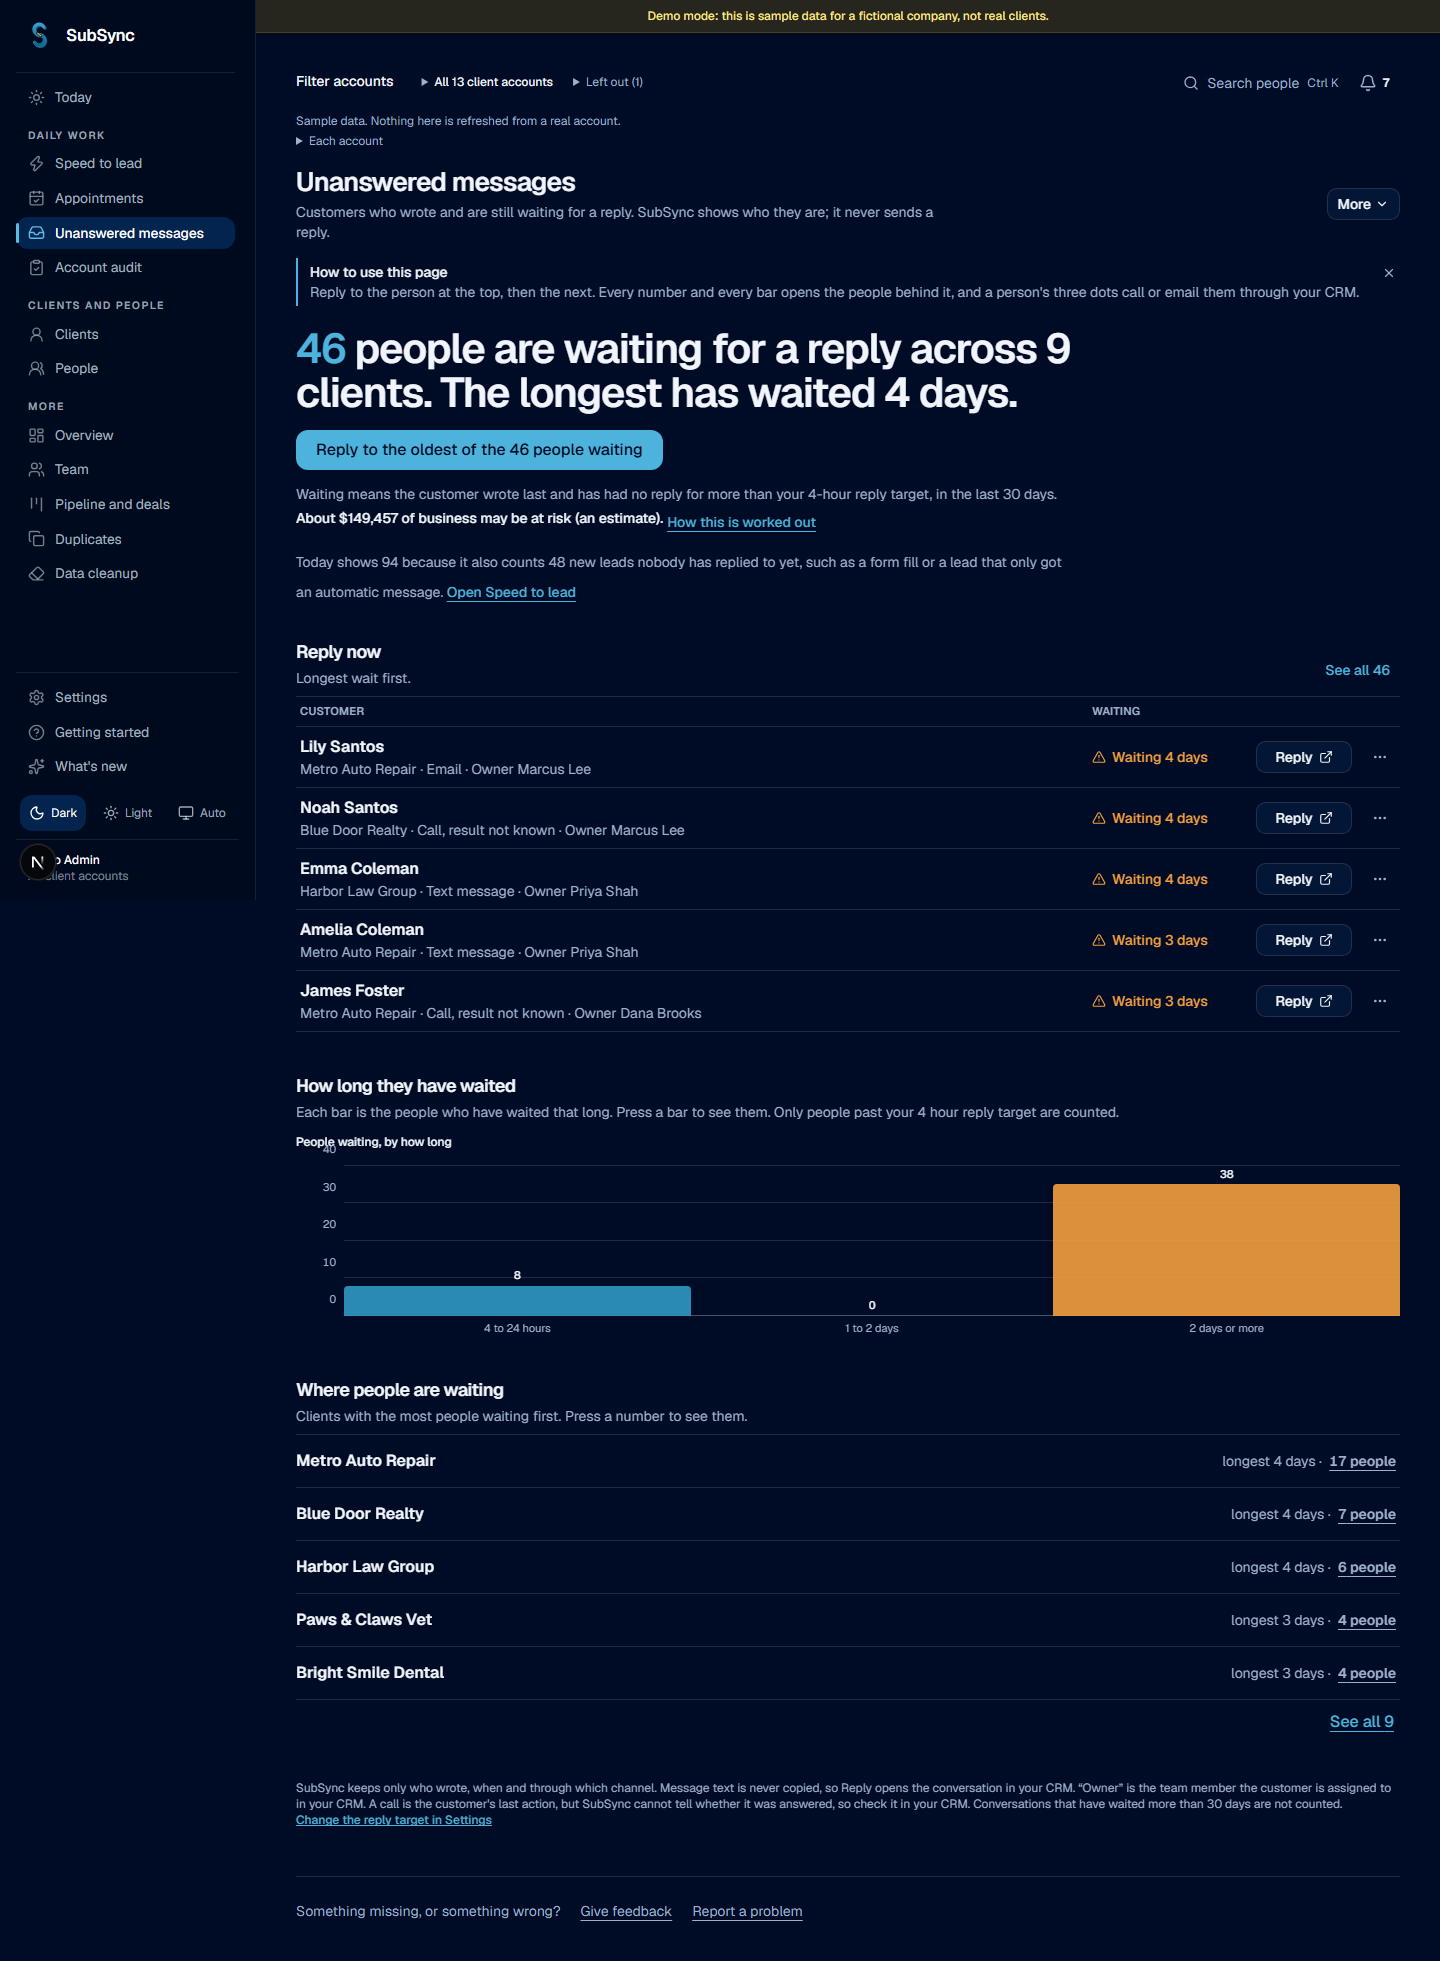
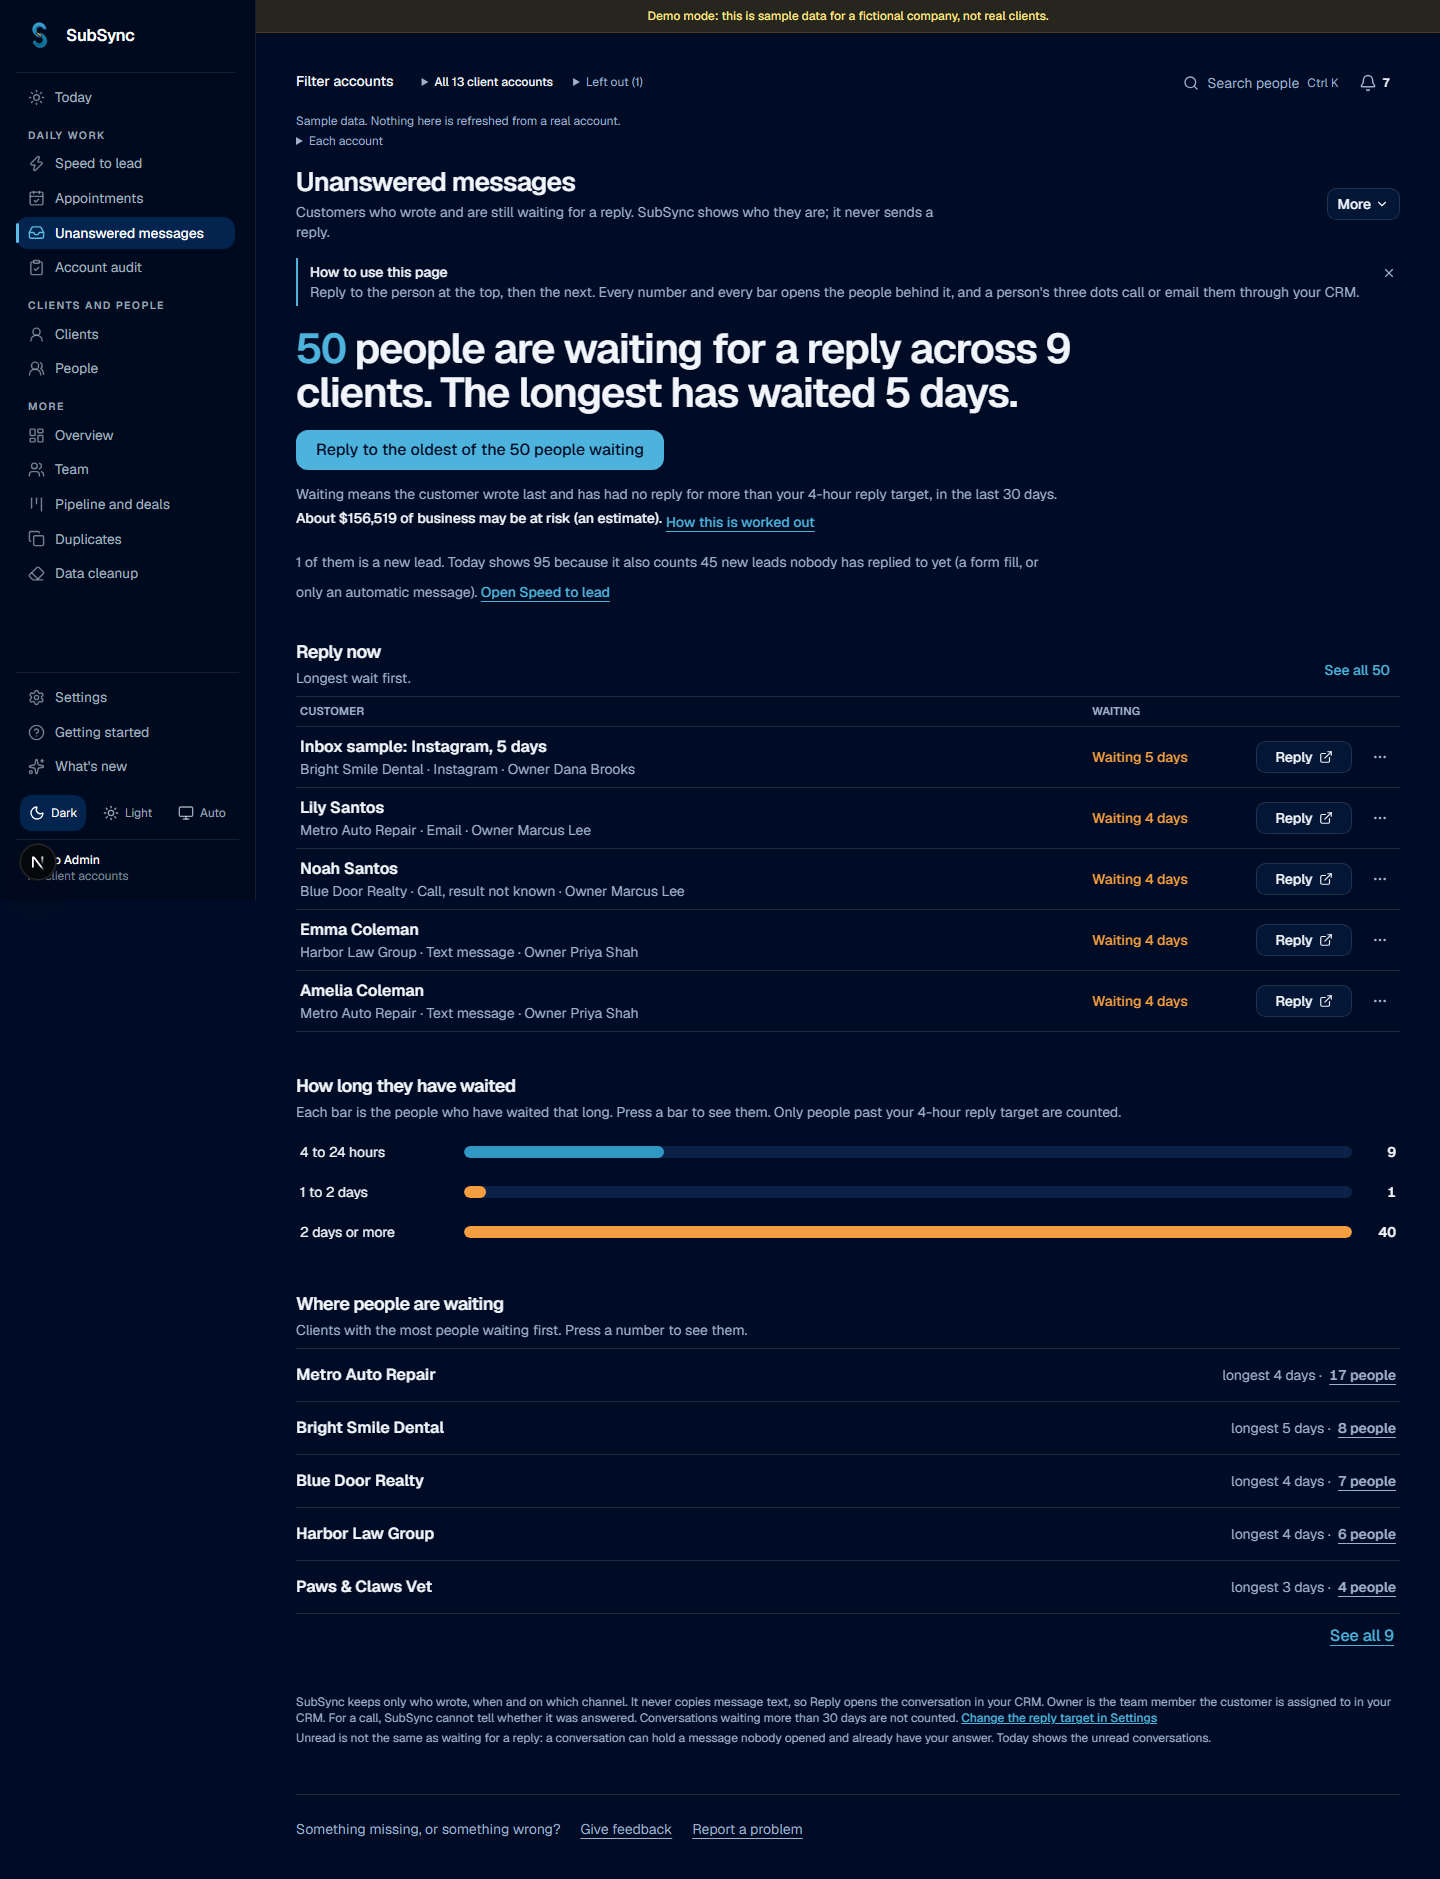
stage UNANS: screenshots, verification record, demo seed made atomic, steadier agreement tests

diff --git a/tests/e2e/unanswered-v2.spec.ts b/tests/e2e/unanswered-v2.spec.ts
@@ -59,12 +59,12 @@ for (const role of ROLES) {
 /**
  * Presses a number and checks that the list it opens holds exactly that many people. The number was read when the page loaded and the list is read when it is pressed; on the
  * slow demo that is minutes apart, and a person can cross the reply target in between (the clock moves, each number is right at its moment). So when the two differ the page is
- * loaded again and the pair is retaken, up to 4 times; a list that is always different still fails.
+ * loaded again and the pair is retaken, up to 6 times (a demo sign-in made by another test run elsewhere deletes and re-makes the four sample conversations, for about ten seconds each time on this machine, so a read can land in that gap; the transaction added to the demo seed in this stage closes the gap once every server runs it); a list that is always different still fails.
  */
 async function opensItsPeople(page: Page, press: () => Promise<number>, back = true) {
   let lastShown = -1, lastCount = -2;
-  for (let attempt = 0; attempt < 4; attempt++) {
-    if (attempt > 0) { await page.reload(); await expect(page.getByTestId("today-headline")).toBeVisible({ timeout: 90_000 }); }
+  for (let attempt = 0; attempt < 6; attempt++) {
+    if (attempt > 0) { await page.waitForTimeout(3000 * attempt); await page.reload(); await expect(page.getByTestId("today-headline")).toBeVisible({ timeout: 90_000 }); }
     lastShown = await press();
     try { await expect(page.getByTestId("wait-list-count")).toHaveText(String(lastShown), { timeout: 45_000 }); lastCount = lastShown; break; }
     catch { lastCount = n(await page.getByTestId("wait-list-count").innerText().catch(() => "-1")); }

diff --git a/docs/features/UNANSWERED.md b/docs/features/UNANSWERED.md
@@ -10,10 +10,10 @@ One question: **"who wrote to us and is still waiting for a reply, and who do I 
 2. **One sentence** ("46 people are waiting for a reply across 9 clients. The longest has waited 4 days.") and **one button** ("Reply to the oldest of the 46 people waiting", which opens that conversation in the CRM through the white-label link). Under it: what waiting means in one line, the labelled cost estimate with its formula one tap away, and one line that explains Today's number ("Today shows 94 because it also counts 48 new leads nobody has replied to yet" with a link to Speed to lead). The all-clear says "Nobody is waiting for a reply." plus the next best step and two buttons.
 3. **Reply now**: five people (KF-8: name, one reason line with the client, channel, owner, how long, ONE small Reply button 44 px on a phone, a quiet three-dot menu: Show person, Call in your CRM, Email in your CRM, Copy details). A person with several waiting conversations is one row ("2 conversations"). "See all N" opens the whole list in place: searched, filtered by how long, channel and owner ("No owner", "Mine"), sorted, and paged **on the server**, 25 a page, so 6 or 150 clients cost the same. "N are assigned to you. Show mine" for anyone who owns some.
 4. **How long they have waited**: the one chart, three or four bars. Each bar is one button whose number is the number of people it opens.
-5. **Where people are waiting**: an agency with more than one client sees the top five clients by people waiting and "See all N" (searched and paged on the server). Inside one account (a business owner, an agency user inside a client, ) the same place ranks the people who own the customers, "No owner" included. A client's staff get neither (the server sends none).
+5. **Where people are waiting**: an agency with more than one client sees the top five clients by people waiting and "See all N" (searched and paged on the server). Inside one account (a business owner, or an agency user who opened one client) the same place ranks the people who own the customers, "No owner" included. A client's staff get neither (the server sends none).
 6. The notes at the bottom: SubSync keeps only who wrote, when and which channel; owner means; a call cannot be judged; the 30-day window; unread is not waiting.
 
-Files: `src/lib/analytics/unanswered-v2.ts` (pure: the person, the buckets, the one selection, facets, rankings, sentences, estimate, agreement with Today, the bounded first screen), `unanswered-v2-queries.ts` (`unansweredHome`, `unansweredList`, `unansweredRanks`), `src/lib/api/unanswered-routes.ts` (`GET /api/app/inbox?part=home|list|ranks`), `src/app/app/views/inbox.tsx` (the page; the name `InboxView` is kept), `unanswered-rows.tsx`, `unanswered-all.tsx`, `unanswered-picture.tsx`. Changed: `router.ts` (one import and one dispatch block), `speed-v2-queries.ts` (one word: `accountFacts` is exported), `scripts/check-tenancy.ts` (nine read addresses appended). Kept untouched: the older `GET /api/app/inbox` (the exports, the saved views, the older tests), `waiting.ts` (the one rule), `waiting-view.ts`, `inbox-controls.tsx` (no longer used by the page; its tests still run). Not touched: `lead-drawer.tsx`, the People views, `nav.ts`, the sidebar, scopes, the marketplace app, migrations.
+Files: `src/lib/analytics/unanswered-v2.ts` (pure: the person, the buckets, the one selection, facets, rankings, sentences, estimate, agreement with Today, the bounded first screen), `unanswered-v2-queries.ts` (`unansweredHome`, `unansweredList`, `unansweredRanks`), `src/lib/api/unanswered-routes.ts` (`GET /api/app/inbox?part=home|list|ranks`), `src/app/app/views/inbox.tsx` (the page; the name `InboxView` is kept), `unanswered-rows.tsx`, `unanswered-all.tsx`, `unanswered-picture.tsx`. Changed: `router.ts` (one import and one dispatch block), `speed-v2-queries.ts` (one word: `accountFacts` is exported), `scripts/check-tenancy.ts` (nine read addresses appended), `src/lib/demo/seed.ts` (`ensureInboxDemo` now deletes and re-makes the four sample conversations in ONE transaction: every demo sign-in used to delete them and re-insert them a moment later, so a read in between, and a test, saw four people fewer; found because this stage's tests compare two reads). Kept untouched: the older `GET /api/app/inbox` (the exports, the saved views, the older tests), `waiting.ts` (the one rule), `waiting-view.ts`, `inbox-controls.tsx` (no longer used by the page; its tests still run). Not touched: `lead-drawer.tsx`, the People views, `nav.ts`, the sidebar, scopes, the marketplace app, migrations.
 
 ### The numbered brief and where each item is
 
@@ -82,13 +82,34 @@ Files: `src/lib/analytics/unanswered-v2.ts` (pure: the person, the buckets, the 
 - **The client's staff "own queue"** is the account, not only contacts assigned to them (see DECISIONS).
 - **Saved views** are no longer offered in the page (the endpoints and the table stay).
 
+## Verification (commands run in `C:\Users\KING\wt\UNANS`, 4 Nov 2026 by the clock of this machine; the dev server on port 3171 reads the real database through the demo company)
+
+| Command | Result |
+|---|---|
+| `npx next typegen && npx tsc --noEmit` | clean |
+| `npx eslint src tests` | 0 errors, 12 warnings, none in a file of this stage |
+| `node --test src/lib/__tests__/` | 929 tests, 929 pass, 0 fail (15 are the new `unanswered-v2.test.ts`: the one rule, a person once, the buckets, a bar and its list, chips that count their own list, search, stable order, paging, the headline, rankings, **Today agrees**, the estimate, the next step, the summary, **150 client accounts** (6,000 people, first screen under 12 kB), no platform words) |
+| `npx vitest run tests/unit/unanswered-v2-db.test.ts --no-file-parallelism` | 7 passed (database: two fixture companies; the other company's account, a forged account id, an empty account list and a colleague's id read nothing; fixtures removed afterwards) |
+| `npx vitest run tests/unit/inbox-waiting-db.test.ts f4-components route-registry` | passed (the first run failed once because another process was re-making the sample conversations at that moment, the race described above; alone it passes) |
+| `npx vitest run tests/unit/speed-ui.test.ts access-roles client-access d1-polish ds-components inbox-views-db today-lists tenant-tables` | all pass |
+| `PW_BASE_URL=http://localhost:3171 npx playwright test tests/e2e/unanswered-v2.spec.ts` desktop-1440 | 10 of 11 passed in the first full run; the one failure ("every number agrees with its list", a bar showed 8 and the list 9 because a person crossed the 4 hour target between two slow reads) led to the pair-retaking helpers; the three changed tests then passed on desktop-1440 (5, 6, 8) |
+| same, tablet-768 | 10 of 11 passed; the failure was the same test 8 (the sample conversations were being re-made by another process); not re-run after the fix |
+| same, phone-390 | first run 8 of 11 (tests 5, 6 and 8: the same two causes); after the fix tests 6 and 8 passed and test 5 passed on its own re-run. The four role tests pass at all three widths (no sideways scroll; Reply, three dots, the primary button and the bars at least 44 px at 390) |
+| `UNANS_CAPTURE=unanswered ... unanswered-capture.spec.ts` | screenshots `docs/review/unanswered-<role>-<390|768|1440>.png` and `-full.png` (new) and `docs/review/unanswered-old-<role>-<width>.png` (before). The page is 2,500 px tall at 390 for the agency (was 4,344) |
+| `scripts/check-tenancy.ts` | **NOT run** (shared fixtures; the lead runs it alone). Nine read addresses of this screen were appended, aimed at the other agency's account, owner and name |
+| `npm run verify`, the integration chain, the full e2e | NOT run |
+
+Older tests changed: `tests/e2e/f4.spec.ts` (the six UI tests about tabs, wait chips, saved views, choices and the drill panel were removed; their API tests, the deals test, the SLA-word test and the client's staff test stay), `tests/e2e/inbox.spec.ts` (the screen test follows the new page), `tests/e2e/f1.spec.ts` (the unread test reads the footnote), `src/lib/__tests__/f4-wording.test.ts` (names the new files). Not run: `tests/e2e/f4.spec.ts`, `inbox.spec.ts`, `f1.spec.ts` after the change.
+
+Two things found by the tests, both fixed: the person's name came from the first conversation in the list, not the oldest (a unit test caught it); and a race in the demo seed (above).
+
 ## FOR THE LEAD
 
 **Log entry.** Stage UNANS: Unanswered messages rebuilt as the people waiting, BUILT, awaiting King's checks. Decisions for King: (1) the screen counts people, not conversations, and Today's number is this screen's people plus the new leads that have no waiting conversation (stated on the screen); (2) unread and saved views are no longer in the page; (3) no message snippet; (4) a client's staff see their own account with a Mine chip rather than only contacts assigned to them. UNSURE: whether the conversation address opens the right thread on a real white-label domain. NOT VERIFIED LIVE: everything about a real CRM.
 
 **Migration.** None. Nothing in `supabase/migrations/` was added or changed.
 
-**Files likely to conflict at merge:** `src/lib/api/router.ts` (one import and one dispatch block next to the speed block), `src/lib/analytics/speed-v2-queries.ts` (one word), `scripts/check-tenancy.ts` (nine read addresses appended to the reads array), `docs/METRICS.md` and `docs/DECISIONS.md` (appended), `tests/e2e/f4.spec.ts`, `tests/e2e/inbox.spec.ts`, `tests/e2e/f1.spec.ts` and `src/lib/__tests__/f4-wording.test.ts` (older UI tests of the old screen replaced or updated), `src/app/app/views/inbox.tsx` (rewritten).
+**Files likely to conflict at merge:** `src/lib/demo/seed.ts` (one function, `ensureInboxDemo`), `src/lib/api/router.ts` (one import and one dispatch block next to the speed block), `src/lib/analytics/speed-v2-queries.ts` (one word), `scripts/check-tenancy.ts` (nine read addresses appended to the reads array), `docs/METRICS.md` and `docs/DECISIONS.md` (appended), `tests/e2e/f4.spec.ts`, `tests/e2e/inbox.spec.ts`, `tests/e2e/f1.spec.ts` and `src/lib/__tests__/f4-wording.test.ts` (older UI tests of the old screen replaced or updated), `src/app/app/views/inbox.tsx` (rewritten).
 
 **Coverage updates.** For the lead to decide; the old F4 notes (N11 to N15) now have a rebuilt screen: `node scripts/notes-coverage.mjs set F4 DONE-TONIGHT "rebuilt in stage UNANS, see docs/features/UNANSWERED.md"` (not run: shared ledger).
 
